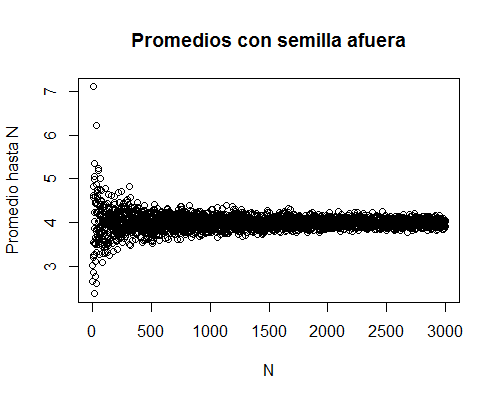
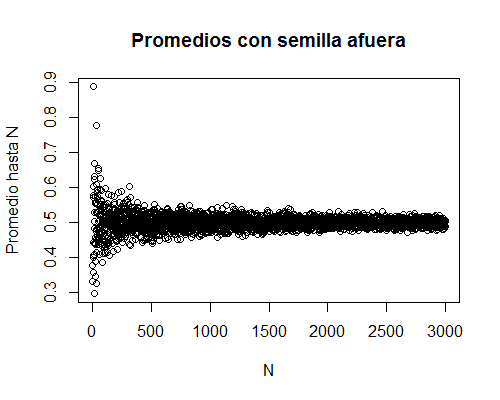
Escritos los ej 1,2,3 en el archivo latex

Changed region(s): [[0.09, 0.27, 0.12, 0.75], [0.09, 0.18, 0.12, 0.24]]

diff --git a/DocumentoTP.tex b/DocumentoTP.tex
@@ -1,6 +1,9 @@
-\documentclass{article}
+\documentclass[a4paper]{article}
+\usepackage[margin=2cm]{geometry}
 \usepackage{graphicx}
 \graphicspath{{Imagenes/}}
+\usepackage{subfig}
+\usepackage{float}
 
 %\font\titleFont = cmr12 at 40pt
 %\title{{\titleFont Trabajo Pr\'actico de Probabilidad y Estad\'istica}}
@@ -25,31 +28,35 @@
 	\newpage
 	
 	\section{Primer Ejercicio}
-	En este ejercicio, trabajamos con una variable aleatoria exponencial de par\'ametro $\lambda = \frac{1}{4}$. Con esta variable generamos 3000 experimentos de $n$ observaciones cada uno, es decir el primer experimento tiene una observaci\'on, el segundo dos y as\'i sucesivamente. 
-	\linebreak
-Si tomamos la media de cada uno de los experimentos y la graficamos podermos ver que queda el siguiente gr\'afico
+	
+	En este ejercicio, trabajamos con una variable aleatoria exponencial de par\'ametro $\lambda = 2$. Con esta variable generamos 3000 experimentos de $n$ observaciones cada uno, es decir el primer experimento tiene una observaci\'on, el segundo dos y as\'i sucesivamente. 
+	
+Si tomamos la media de cada uno de los experimentos y la graficamos podermos ver que queda el siguiente gr\'afico:
 
 	
-%	\begin{figure}
-%		\includegraphics[scale=0.4]{grafico1}
-%		\centering
-%	\end{figure}
+	\begin{figure}[H]
+		\includegraphics[scale=0.75]{grafico1}
+		\centering
+	\end{figure}
 
-	{\includegraphics[scale=0.75]{grafico1}
-	\centering}
+%	{\includegraphics[scale=0.75]{grafico1}
+%	\centering}
 	
 	Se puede observar que el gr\'afico tiene una pinta similar al de una normal, esto nos sirve para ver una representaci\'on del Teorema Central del L\'imite, que dice que si se tienen $X_1,...,X_n$ variables aleatorias i.i.d. con esperanza $\mu$ y varianza $\sigma^2$ entonces si $n$ es lo suficientemente grande, la variable aleatoria $\bar{X} = \frac{1}{n}\sum_{i=1}^{n} X_i$ tiene aproximadamente una distribuci\'on $\mathcal{N}(\mu, \frac{\sigma^2}{n})$.
-	\linebreak
-	\linebreak
-	\begin{flushleft}
-		{\large Diferencias de Gr\'aficos}
-		\linebreak
-	\end{flushleft}
+	
+	\bigskip
+
+	\textbf{\large Diferencias de Gr\'aficos}
+	
+	\smallskip
+	
 	Como el t\'itulo ind\'ica, el gr\'afico anterior fu\'e computado en R seteando primero una semilla afuera de un ciclo for. Si a esa semilla la colocamos dentro del ciclo el gr\'afico mostrado cambia al siguiente
 	
 	
-	{\includegraphics[scale=0.75]{grafico2}
-	\centering}
+	\begin{figure}[H]
+		\includegraphics[scale=0.75]{grafico2}
+		\centering
+	\end{figure}
 	
 	Como se puede ver, los dos gr\'aficos son diferentes, \textquestiondown A qu\'e se debe \'esta diferencia? Se debe al modo en que R trabaja con las semillas al momento de generar datos al azar.
 	
@@ -60,9 +67,127 @@ Si tomamos la media de cada uno de los experimentos y la graficamos podermos ver
 	
 	\section{Segundo Ejercicio}
 	
+	En \'este ejercicio vamos a poder apreciar la Ley de los Grandes N\'umeros, empezaremos guardando la media de dos observaciones de variables exponenciales 1000 veces, resultando en los siguientes gr\'aficos:
+	
+	\begin{figure}[H]
+		\centering
+		\subfloat{\includegraphics[scale = 0.3]{grafico3}}
+		\hfill
+		\subfloat{\includegraphics[scale = 0.3]{grafico4}}
+		\hfill
+		\subfloat{\includegraphics[scale = 0.3]{grafico5}}
+	\end{figure}
+	
+	De los gr\'aficos podemos inferir que las medias no poseen una distribuci\'on normal, ya que el QQ-plot no se asemeja a una recta, en el histograma se ve que hay mayor concentraci\'n cerca de la media (aunque no necesariamente en la media), y tambi\'en podemos ver que hay una cantidad muy grande de "outliers" en el boxplot.
+	
+	Si aumentamos la cantidad de observaciones por muestra a 5 se obtienen estos gr\'aficos:
+	
+	\begin{figure}[H]
+		\centering
+		\subfloat{\includegraphics[scale = 0.26]{grafico6}}
+	\end{figure}
+	
+	\begin{figure}[H]
+		\centering
+		\subfloat{\includegraphics[scale = 0.3]{grafico7}}
+		\hfill
+		\subfloat{\includegraphics[scale = 0.3]{grafico8}}
+	\end{figure}
+	
+	Se empiezan a notar los cambios de los gr\'aficos, en el QQ-plot vemos que los puntos se empiezan a parecer a una recta, en el histograma se ve que la concentraci\'on se acerca m\'as a la media, adem\'as tambi\'en se ve que en el boxplot se redujeron la cantidad de "outliers" que caen fuera del gr\'afico.
+	
+	Ahora si aumentamos la cantidad de observaciones a 30, los cambios se asent\'uan a\'un m\'as, resultando en los siguientes gr\'aficos:
+	
+	\begin{figure}[H]
+		\centering
+		\subfloat{\includegraphics[scale = 0.3]{grafico9}}
+		\hfill
+		\subfloat{\includegraphics[scale = 0.3]{grafico10}}
+		\hfill
+		\subfloat{\includegraphics[scale = 0.3]{grafico11}}
+	\end{figure}
+	
+	Se puede notar claramente en el QQ-plot que el gr\'afico se parece a una recta, indicando que la distribuci\'on de las medias puede ser normal, a su vez ahora el histograma tiene forma similar a un gr\'afico de una distribuci\'on normal y que el boxplot no s\'olo tubo otra disminuci\'on en la cantidad de "outliers" sino que tambi\'en esta m\'as centrado, de lo que podemos deducir mayor simetr\'ia en la distribuci\'on de las medias.
+	
+	Finalmente si aumentamos las observaciones a 500 por muestra, se obtienen estos gr\'aficos:
+	
+	\begin{figure}[H]
+		\centering
+		\subfloat{\includegraphics[scale = 0.3]{grafico12}}
+		\hfill
+		\subfloat{\includegraphics[scale = 0.3]{grafico13}}
+		\hfill
+		\subfloat{\includegraphics[scale = 0.3]{grafico14}}
+	\end{figure}
+	
+	En estos gr\'aficos además de ver a\'un m\'as acentuaci\'on de las caracter\'isticas mencionadas anteriormente, podemos ver que la mayor\'ia de las medias cae cerca de la esperanza de las variables.
+	
+	Luego de ver estos datos podemos inferir lo siguiente, a medida que aumentamos la cantidad de observaciones en cada muestra, estas muestras se acercan cada vez m\'as a la esperanza de la variable, podemos decir entonces que si tomaramos una infinita cantidad de observaciones entonces las muestras deber\'ian converger a la esperanza. De esto mismo habla la Ley de los Grandes N\'umeros, que dice que la media de las observaciones de n variables aleatorias i.i.d. con igual esperanza $\mu$ finita se aproxima en probabilidad a $\mu$.
+	
+	En este ejercicio ocurri\'o algo similar al primero, a medida que aumentamos las observaciones pudimos ver que la distribuci\'on de las medias se iba acercando a la de una variable aleatoria normal.
+	Podemos ver este progreso viendo los gr\'aficos de los boxplots realizados
+	
+	\begin{figure}[H]
+		\centering
+		\subfloat{\includegraphics[scale = 1]{grafico15}}
+	\end{figure}
+	
 	\newpage
 	
 	\section{Tercer Ejercicio}
+	
+	Tomando $X_1,...,X_n$ variables aleatorias i.i.d. con distribuci\'on exponencial de par\'ametro $\lambda = 2$, vamos a comprobar que la distribuci\'on de la variable aleatoria $\frac{\bar{X_n} - E(X_1)}{\sqrt{\frac{Var(X_1)}{n}}}$ estandarizada se aproxima a la de una normal estandarizada cuando $n$ es grande.
+	Primero veamos $E(X_1)$ y $Var(X_1)$, como sabemos que $\lambda = 2$ entonces $E(X_1) = \frac{1}{\lambda} = \frac{1}{2}$ y $Var(X_1) = \frac{1}{\lambda^2} = \frac{1}{4}$.
+	\smallskip
+	
+	Ahora si estandarizamos los conjuntos de variables aleatorias del ejercicio anterior, obtenemos como resultando los siguientes gr\'aficos:
+	
+	\begin{figure}[H]
+		\centering
+		\subfloat{\includegraphics[scale = 0.3]{grafico16}}
+		\hfill
+		\subfloat{\includegraphics[scale = 0.3]{grafico17}}
+	\end{figure}
+	
+	\begin{figure}[H]
+		\centering
+		\subfloat{\includegraphics[scale = 0.3]{grafico18}}
+		\hfill
+		\subfloat{\includegraphics[scale = 0.3]{grafico19}}
+	\end{figure}
+	
+	En estos QQ-plots se puede ver que a medida que $n$ se hace m\'as grande, la distribuci\'on de la variable estandarizada se parece m\'as a la de una normal.
+	Observando los siguientes boxplots podemos ver que la distribuci\'on se vuelve m\'as sim\'etrica a medida que aumenta $n$:
+	
+	\begin{figure}[H]
+		\centering
+		\subfloat{\includegraphics[scale = 0.45]{grafico20}}
+		\hfill
+		\subfloat{\includegraphics[scale = 0.45]{grafico21}}
+	\end{figure}
+	
+	\begin{figure}[H]
+		\centering
+		\subfloat{\includegraphics[scale = 0.45]{grafico22}}
+		\hfill
+		\subfloat{\includegraphics[scale = 0.45]{grafico23}}
+	\end{figure}
+	
+	Finalmente si vemos los histogramas con una funci\'on normal superpuesta encima, se puede apreciar como el gr\'afico se asemeja cada vez m\'as a medida que crece la $n$:
+	
+	\begin{figure}[H]
+		\centering
+		\subfloat{\includegraphics[scale = 0.26]{grafico24}}
+		\hfill
+		\subfloat{\includegraphics[scale = 0.26]{grafico25}}
+	\end{figure}
+	
+	\begin{figure}[H]
+		\centering
+		\subfloat{\includegraphics[scale = 0.3]{grafico26}}
+		\hfill
+		\subfloat{\includegraphics[scale = 0.3]{grafico27}}
+	\end{figure}
 	
 	\newpage
 	
